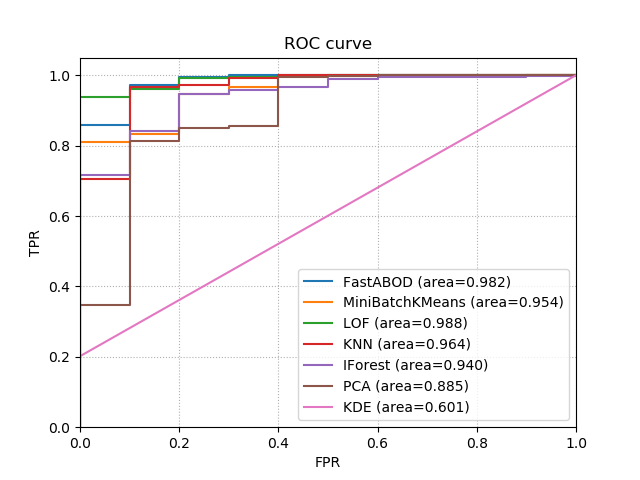
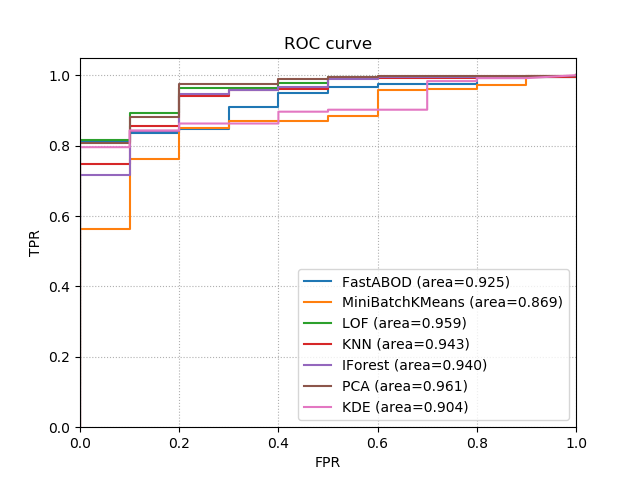
update examples

diff --git a/README.rst b/README.rst
@@ -72,12 +72,15 @@ Examples
     import matplotlib.pyplot as plt
     from kenchi.datasets import load_wdbc
     from kenchi.outlier_detection import *
+    from kenchi.pipeline import make_pipeline
+    from sklearn.preprocessing import StandardScaler
 
     # Load the breast cancer wisconsin dataset
-    X, y      = load_wdbc(random_state=0)
+    X, y         = load_wdbc(random_state=0)
 
-    f, ax     = plt.subplots()
-    detectors = [
+    f, ax        = plt.subplots()
+    scaler       = StandardScaler()
+    detectors    = [
         FastABOD(),
         MiniBatchKMeans(random_state=0),
         LOF(),
@@ -88,6 +91,8 @@ Examples
     ]
 
     for detector in detectors:
+        pipeline = make_pipeline(scaler, detector)
+
         # Fit the model, and plot the ROC curve
         detector.fit(X).plot_roc_curve(X=None, y=y, ax=ax)
 
